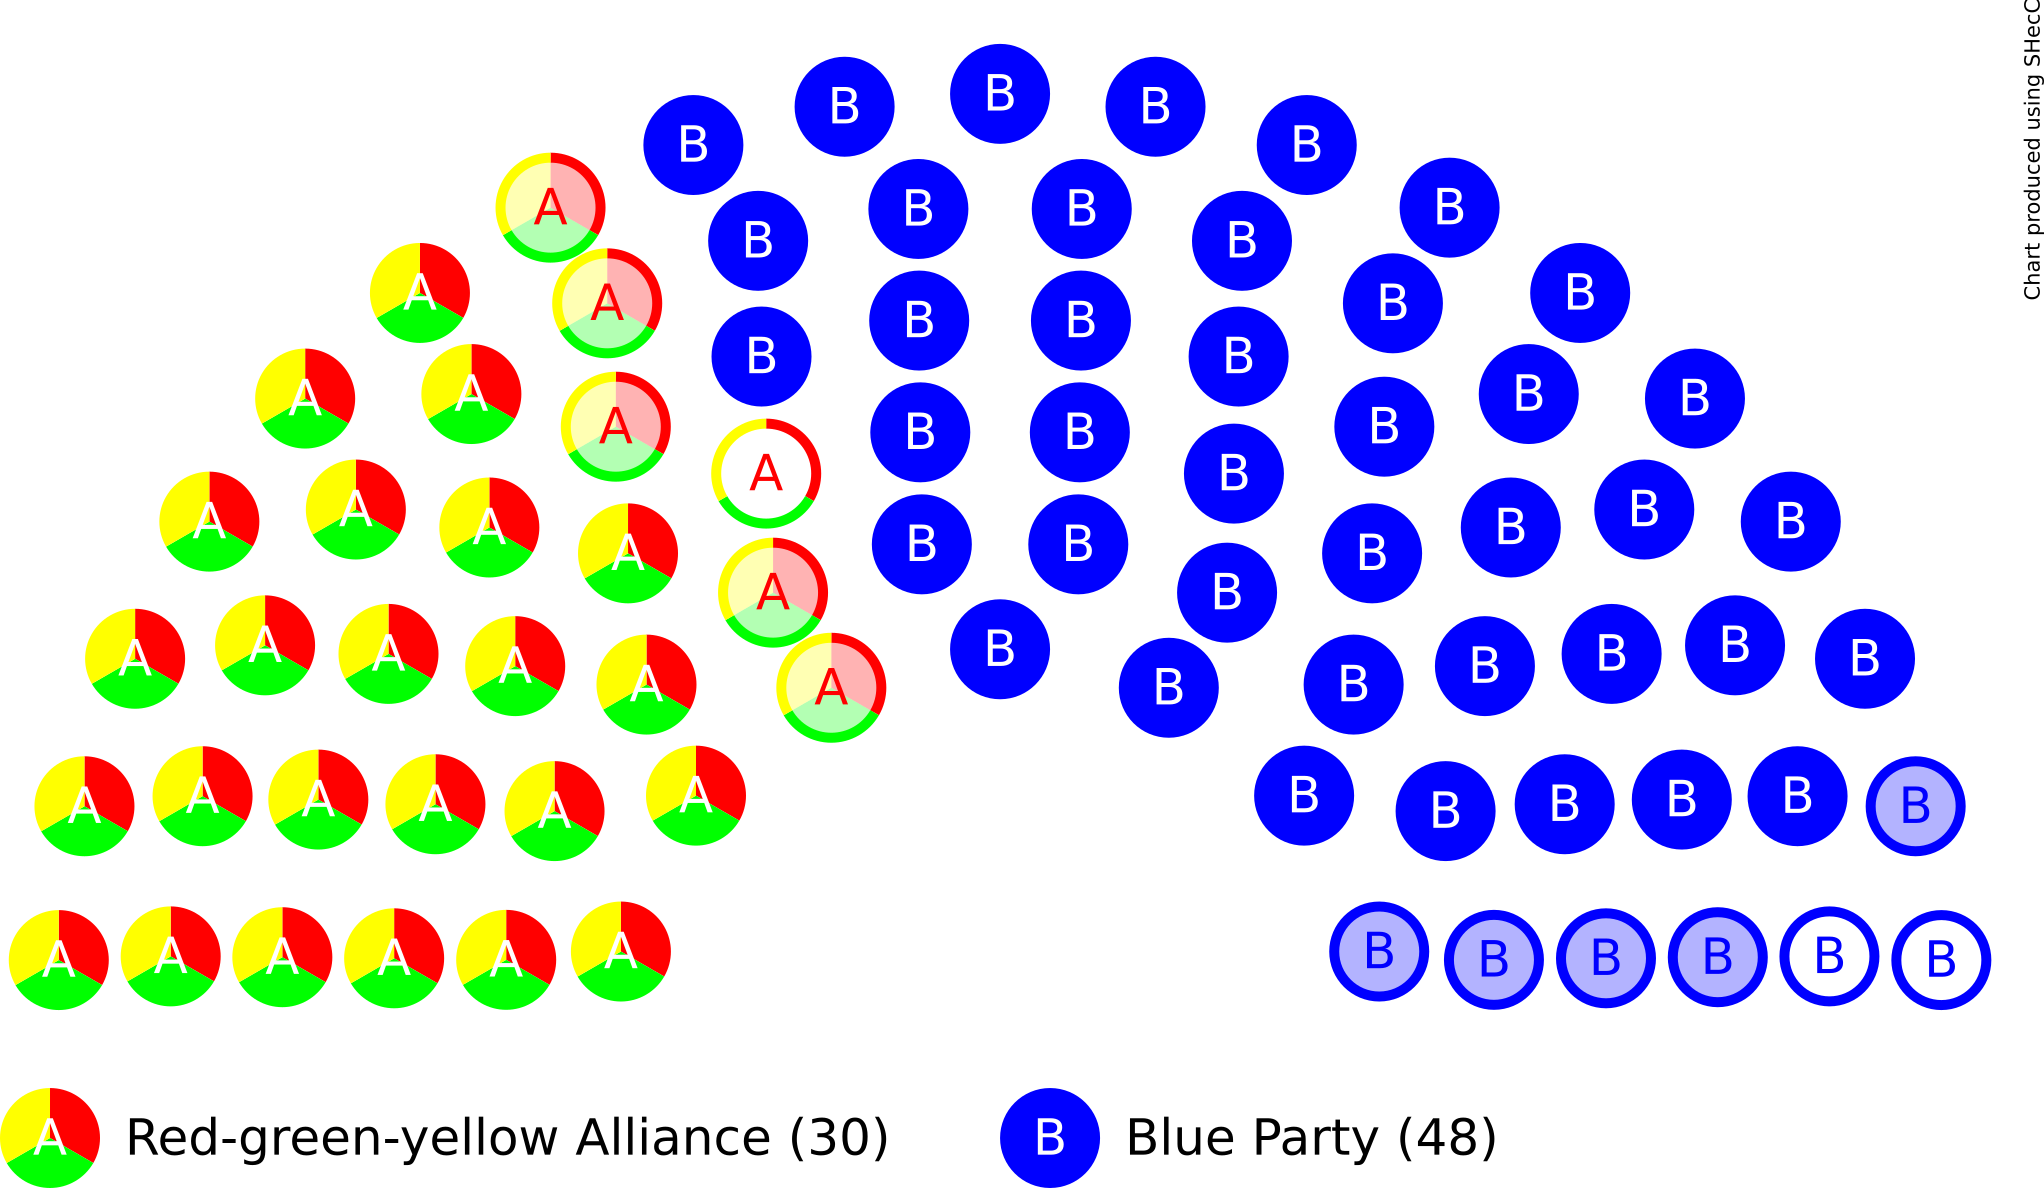
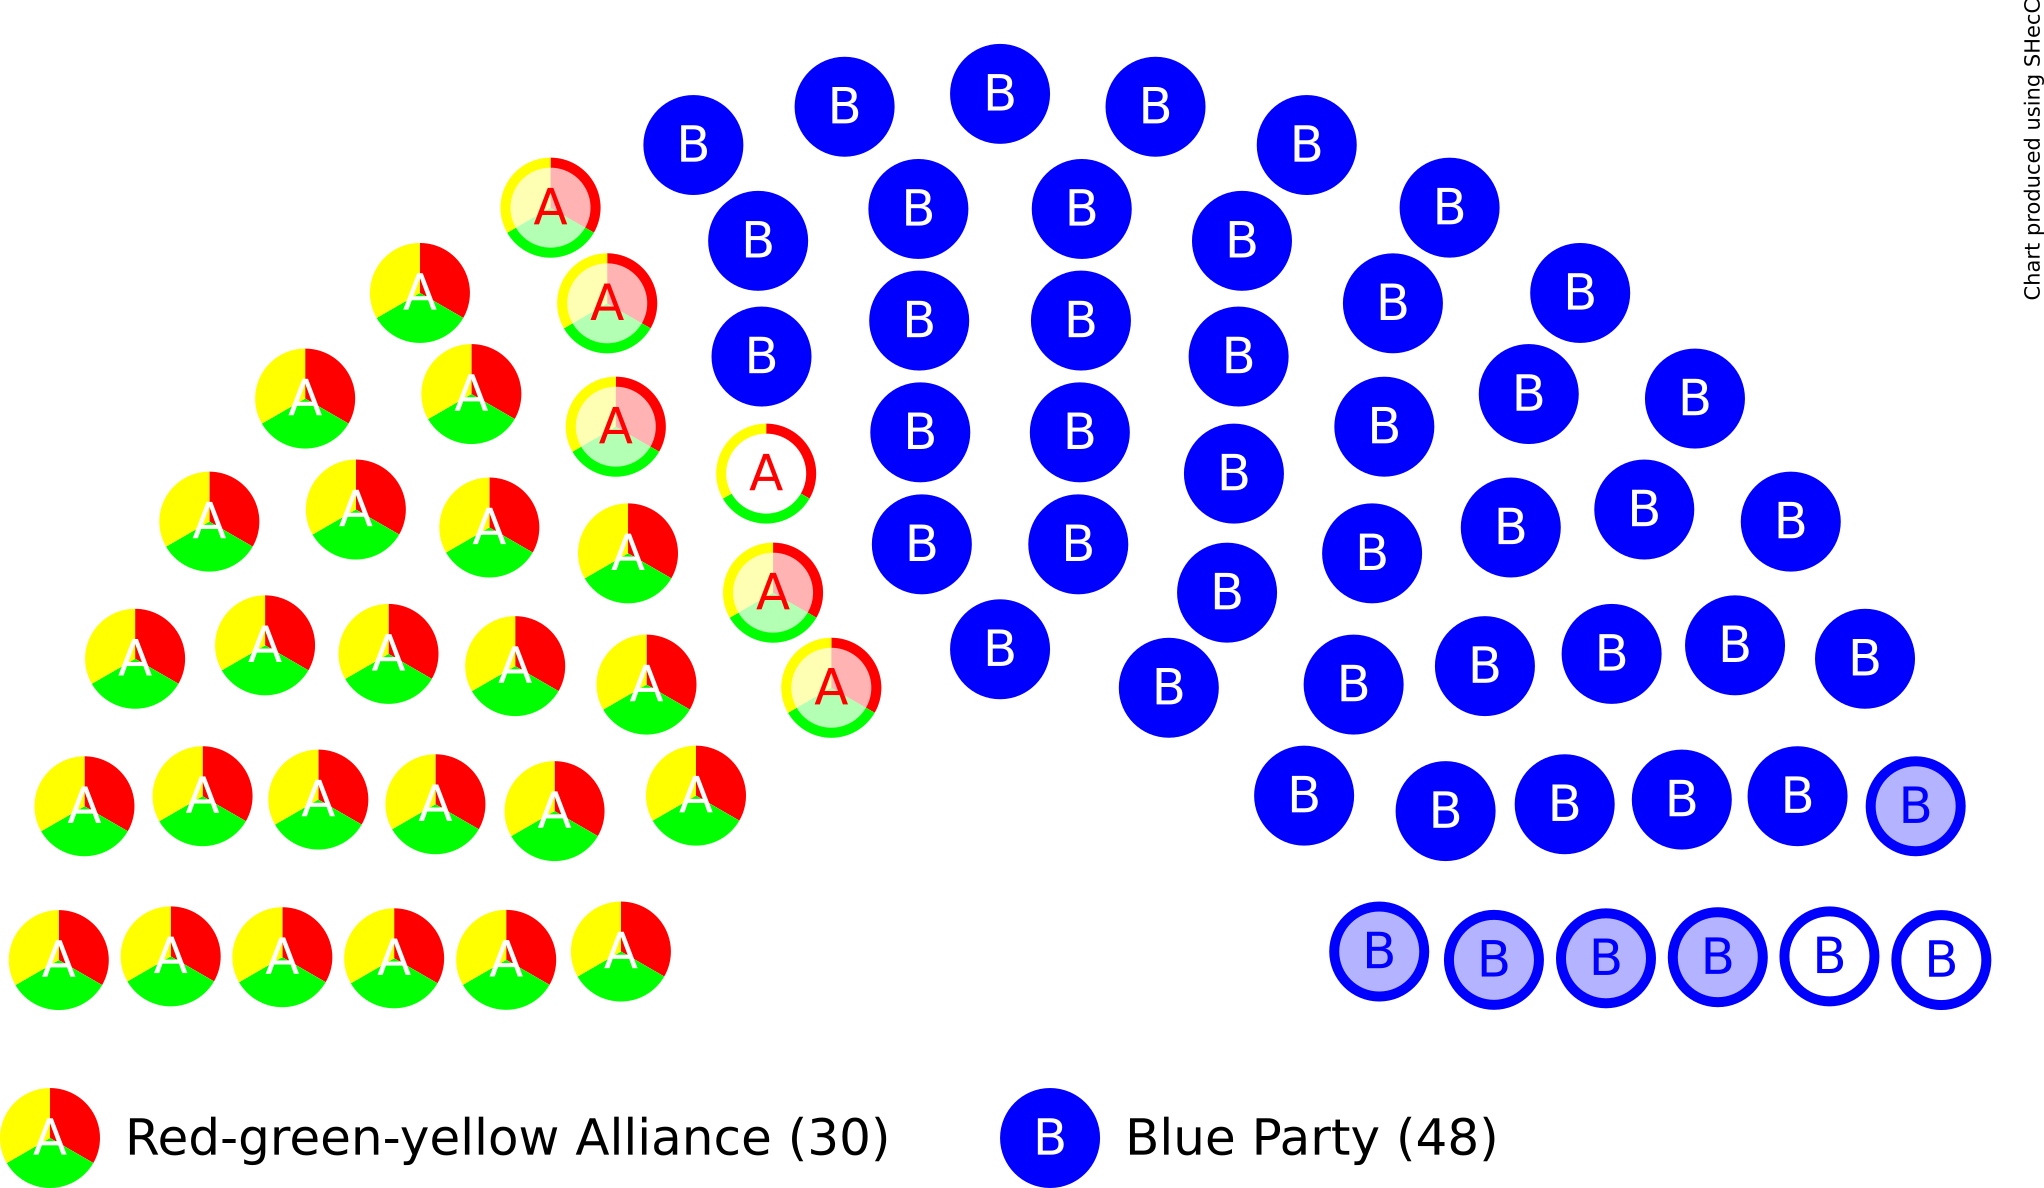
Issue #45 and #55: Corrected the image in the README file

Changed region(s): [[0.2774, 0.2803, 0.4315, 0.6229], [0.2466, 0.1246, 0.339, 0.2803]]

diff --git a/src/main/java/net/filipvanlaenen/shecc/export/SeatingPlanExporter.java b/src/main/java/net/filipvanlaenen/shecc/export/SeatingPlanExporter.java
@@ -416,8 +416,13 @@ public class SeatingPlanExporter extends Exporter {
                     .closePath().fill(colors[i]).opacity(SEMITRANSPARENT_SEAT_OPACITY);
             g.addElement(fillPath);
             double strokeWidth = radius * RADIUS_TO_STROKE_FACTOR;
-            Path strokePath = new Path()
-                    .moveTo(x1, y1).arcTo(radius, radius, 0, Path.LargeArcFlagValues.SMALL_ARC,
+            double smallerRadius = radius - strokeWidth / 2D;
+            x1 = x + smallerRadius * Math.sin(angle1);
+            y1 = y - smallerRadius * Math.cos(angle1);
+            x2 = x + smallerRadius * Math.sin(angle2);
+            y2 = y - smallerRadius * Math.cos(angle2);
+            Path strokePath = new Path().moveTo(x1, y1)
+                    .arcTo(smallerRadius, smallerRadius, 0, Path.LargeArcFlagValues.SMALL_ARC,
                             Path.SweepFlagValues.POSITIVE_ANGLE, x2, y2)
                     .fill(NoneValue.NONE).stroke(colors[i]).strokeWidth(strokeWidth);
             g.addElement(strokePath);
@@ -443,13 +448,14 @@ public class SeatingPlanExporter extends Exporter {
         for (int i = 0; i < colors.length; i++) {
             double angle1 = 2 * Math.PI * i / colors.length;
             double angle2 = 2 * Math.PI * (i + 1) / colors.length;
-            double x1 = x + radius * Math.sin(angle1);
-            double y1 = y - radius * Math.cos(angle1);
-            double x2 = x + radius * Math.sin(angle2);
-            double y2 = y - radius * Math.cos(angle2);
             double strokeWidth = radius * RADIUS_TO_STROKE_FACTOR;
+            double smallerRadius = radius - strokeWidth / 2D;
+            double x1 = x + smallerRadius * Math.sin(angle1);
+            double y1 = y - smallerRadius * Math.cos(angle1);
+            double x2 = x + smallerRadius * Math.sin(angle2);
+            double y2 = y - smallerRadius * Math.cos(angle2);
             Path strokePath = new Path()
-                    .moveTo(x1, y1).arcTo(radius, radius, 0, Path.LargeArcFlagValues.SMALL_ARC,
+                    .moveTo(x1, y1).arcTo(smallerRadius, smallerRadius, 0, Path.LargeArcFlagValues.SMALL_ARC,
                             Path.SweepFlagValues.POSITIVE_ANGLE, x2, y2)
                     .fill(NoneValue.NONE).stroke(colors[i]).strokeWidth(strokeWidth);
             g.addElement(strokePath);
